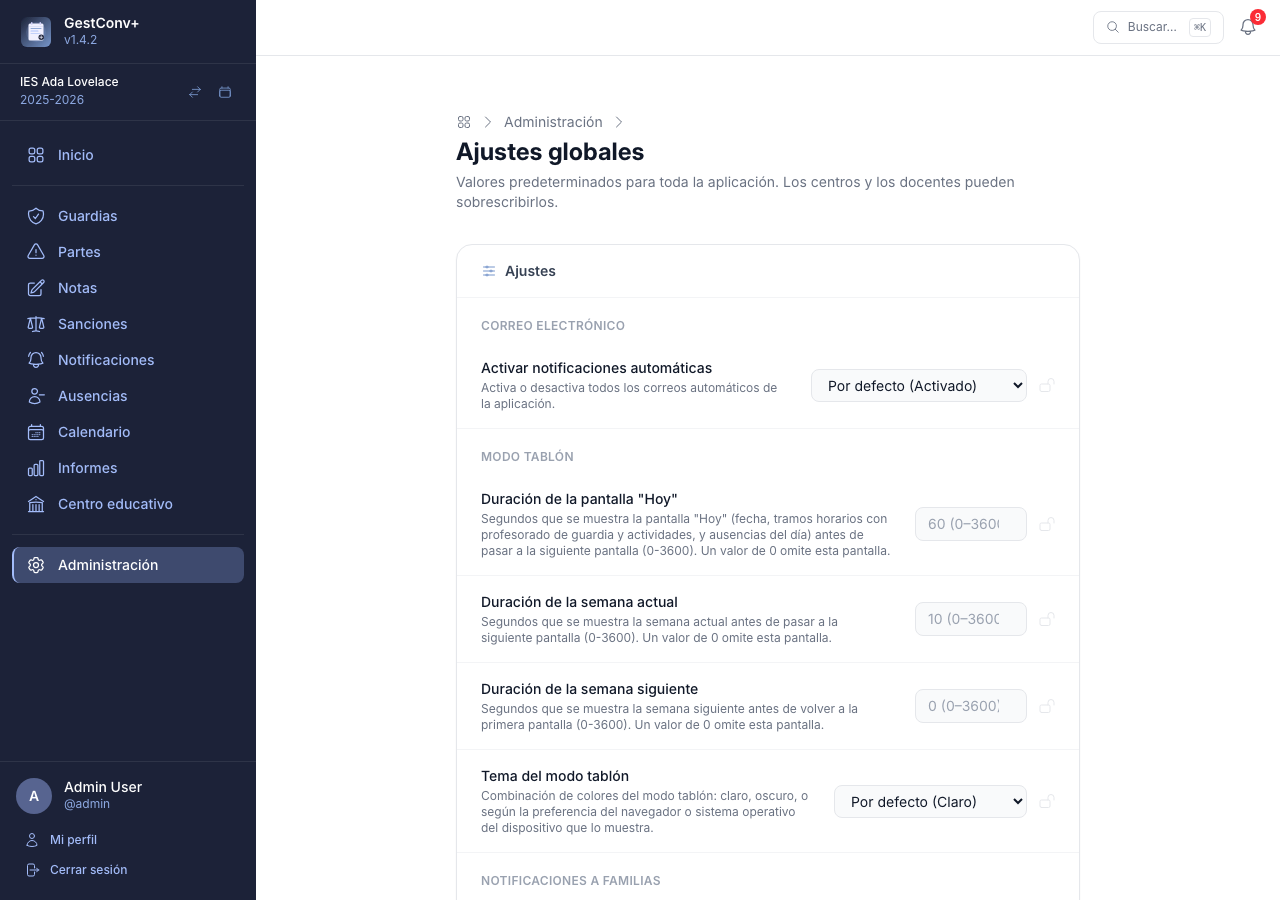
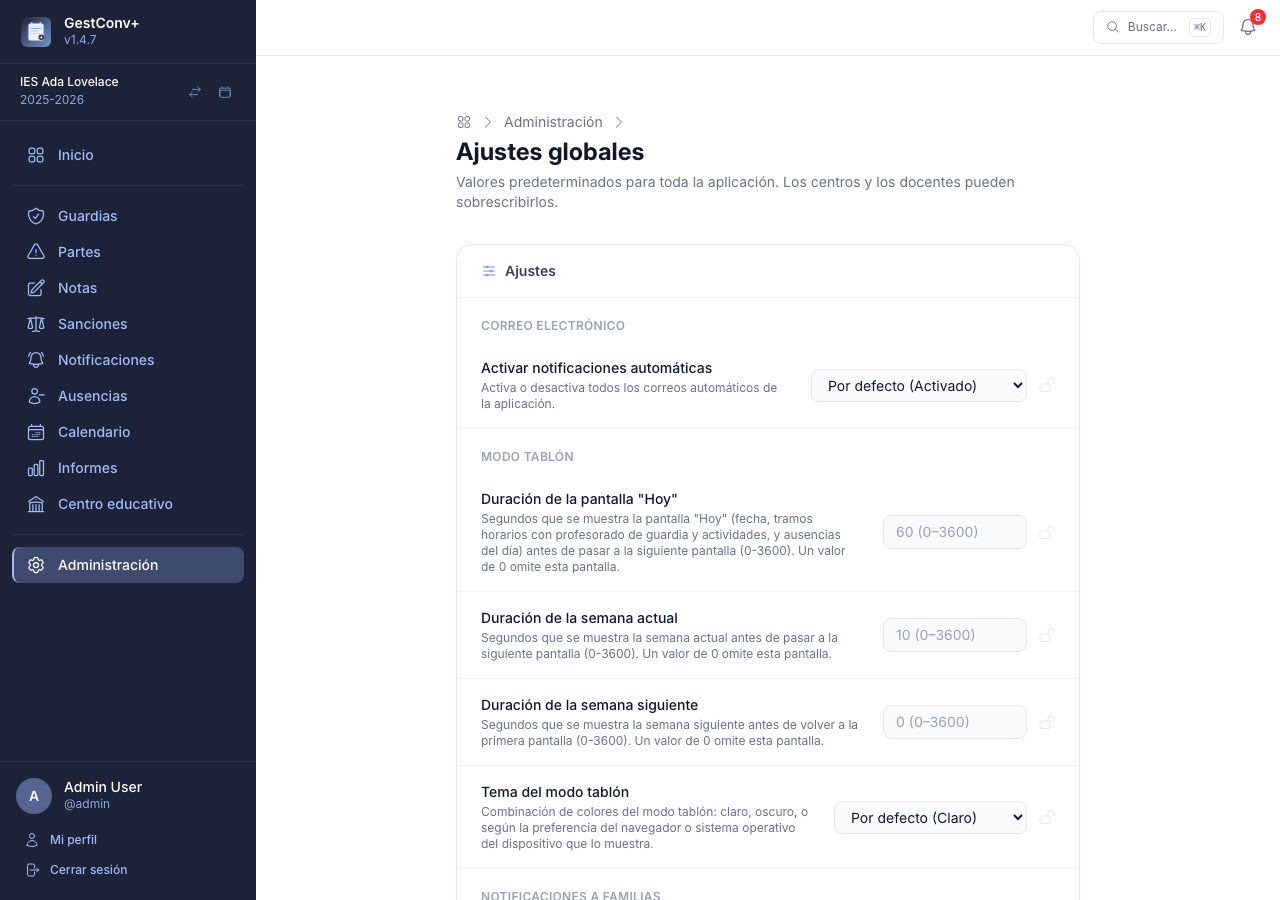
fix(ui): evita desbordes en el listado de partes y en las cabeceras de catálogos
El listado de partes ocultaba la columna de acciones a 1280 px, el registro de
avisos por correo dejaba fuera la columna de resultado, los campos numéricos de
los ajustes cortaban el rango y las cabeceras de varios catálogos
desbordaban la página en móvil. Se ajustan los anchos y se permite que los
botones de la cabecera pasen a otra línea.

docs: añade las capturas de los ajustes de subida de ficheros y del aviso de
adjunto demasiado grande, regenera las de ajustes, partes, registro de
actividad y registro de avisos, y documenta el uso con teclado y el aviso de
cambios sin guardar. scripts/capture-ui-review-shots.mjs las reproduce.

Claude-Session: https://claude.ai/code/session_01T5bQf589vbJe9wberdDbBm

Changed region(s): [[0.375, 0.56, 0.7812, 1.0], [0.6562, 0.8711, 0.7812, 0.9333], [0.6875, 0.6844, 0.7812, 0.7156]]

diff --git a/docs/manual/03-el-trabajo-diario.md b/docs/manual/03-el-trabajo-diario.md
@@ -458,7 +458,10 @@ clases afectadas:
    son PDF, imágenes (PNG, JPG, GIF), documentos de Word, Excel, PowerPoint y OpenDocument, texto
    plano y ZIP.
    Un fichero que supere el tamaño máximo o no esté en un formato admitido se rechaza, indicando el
-   motivo, sin afectar al resto de la actividad.
+   motivo, sin afectar al resto de la actividad. El aviso aparece ya al elegir el fichero, antes de
+   guardar:
+
+   ![Aviso de un adjunto que supera el tamaño máximo](img/ausencias/adjunto-demasiado-grande.png)
 
 Una misma ausencia puede tener tantas actividades como clases afectadas, incluso varias el mismo
 día si hay más de un tramo horario implicado.
@@ -596,6 +599,15 @@ agrupan por tipo y se filtran mientras se escribe, sin distinguir mayúsculas ni
 - **Docentes** — solo para administradores.
 - **Acciones** — accesos directos a **Nuevo parte**, **Ir a notificaciones** y **Cambiar de
   curso** (esta última requiere permisos de administración).
+
+## Uso con teclado y cambios sin guardar
+
+- Al pulsar **Tab** nada más cargar una pantalla aparece el enlace **Saltar al contenido
+  principal**, que lleva directamente al contenido sin recorrer antes el menú lateral.
+- Si empiezas a rellenar un formulario (parte, sanción, ausencia, actividad, nota, evento, ficha
+  de estudiante o tarea de sanción) y intentas salir de la página sin guardar —cerrar la pestaña,
+  recargar o seguir un enlace—, el navegador pide confirmación antes de descartar los cambios. Al
+  guardar el formulario, o si no has modificado nada, no se muestra ningún aviso.
 
 ## La aplicación en el móvil
 

diff --git a/docs/manual/07-administrar-la-plataforma.md b/docs/manual/07-administrar-la-plataforma.md
@@ -397,6 +397,8 @@ de que existió.
 | Tamaño máximo por fichero (MB) | Global | Entero | 1-1024 | 10 |
 | Tamaño máximo total por envío (MB) | Global | Entero | 1-2048 | 50 |
 
+![Ajustes globales de subida de ficheros](img/ajustes/ajustes-subida-ficheros.png)
+
 Limitan los ficheros que se suben en adjuntos de actividades y de tareas de sanción, plantillas PDF
 e importaciones. El **total por envío** cubre el caso de seleccionar varios ficheros de una vez.
 Si se supera cualquiera de los límites, la aplicación lo avisa antes de enviar el formulario y, si
